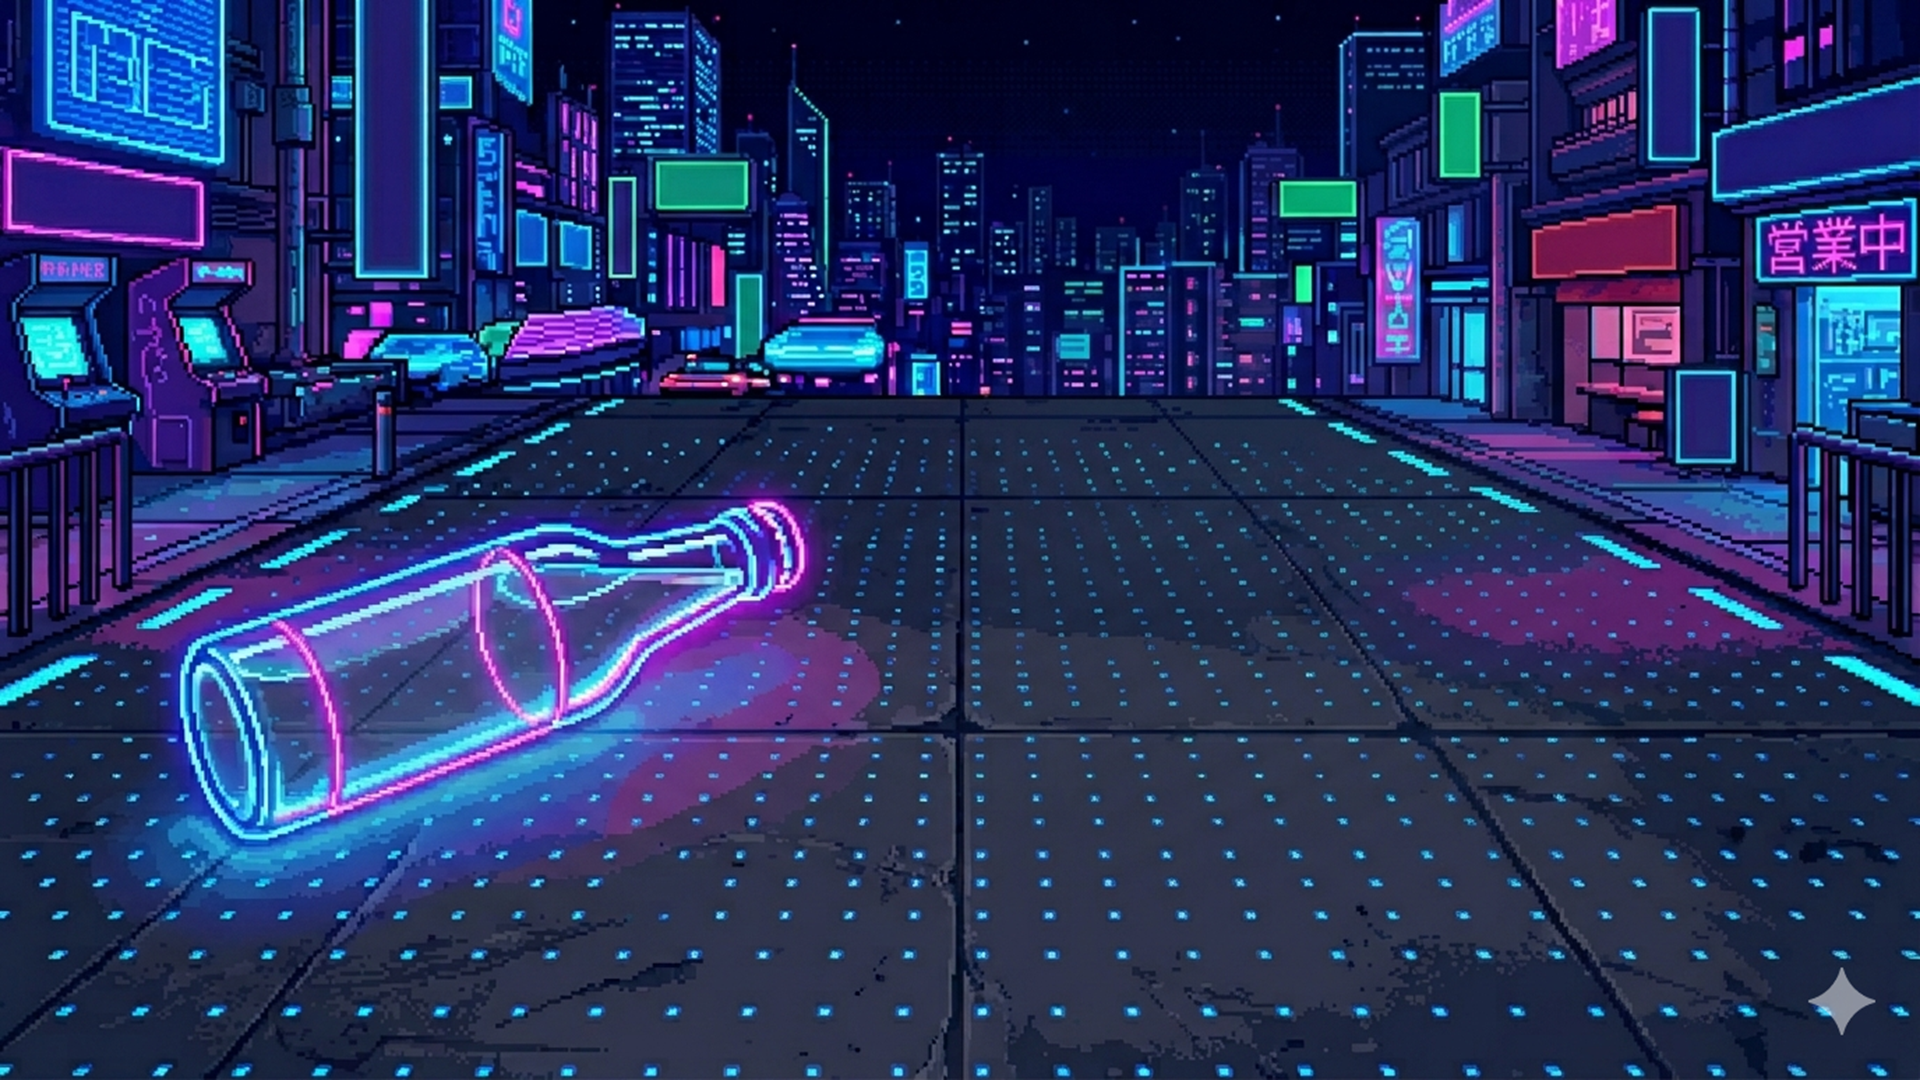
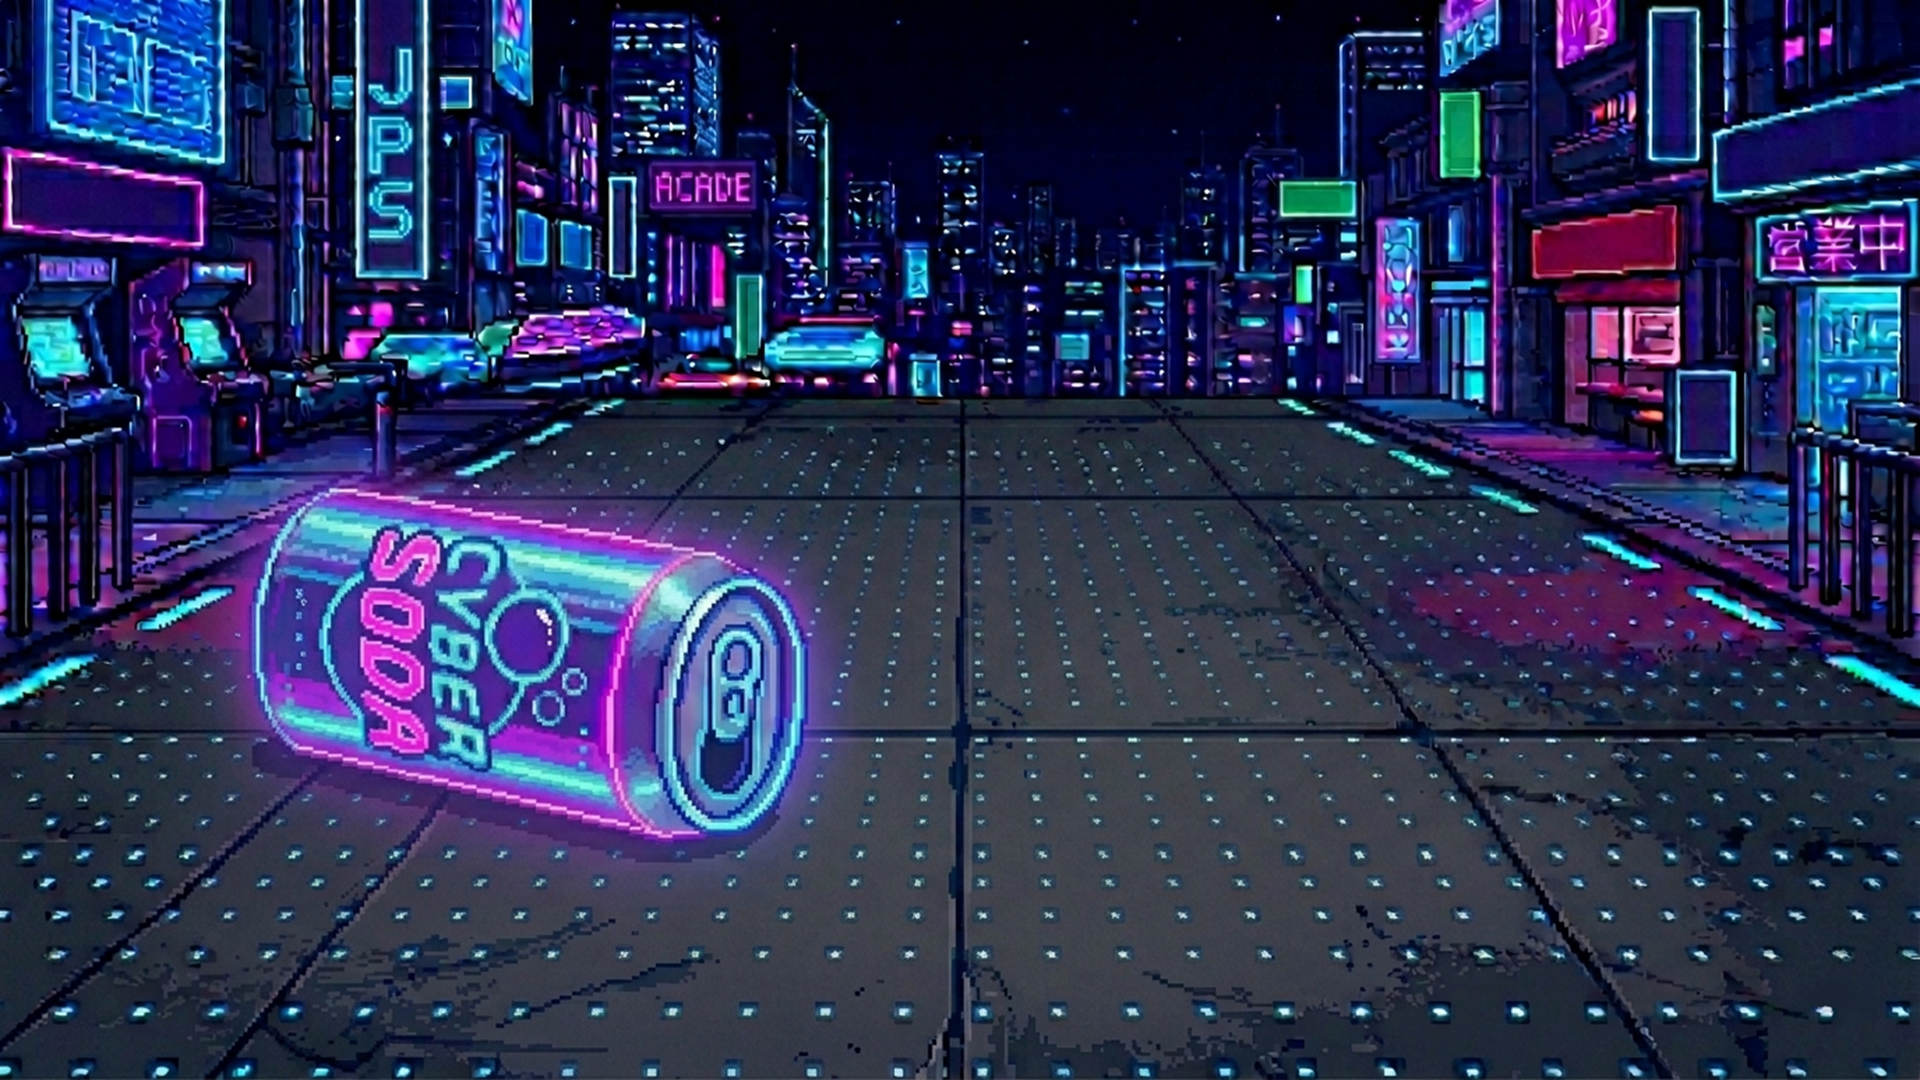
[追加] ResultSceneから各シーンへ遷移できるように変更。

diff --git a/SceneResult.cpp b/SceneResult.cpp
@@ -1,10 +1,15 @@
 #include "SceneResult.h"
+#include "SceneGame.h"
 #include "InputManager.h"
+#include <string>
 
-SceneResult::SceneResult(FileManager& fileMng, bool isClear, ClearResult& result) : SceneSuper(fileMng), _isClear(isClear), clearResult_(result)
+SceneResult::SceneResult(FileManager& fileMng, bool isClear, ClearResult& result) : SceneSuper(fileMng), _isClear(isClear), _clearResult(result)
 {
+	SceneGame::selectedStageIndex_ == 4 ? _selectedNext = 1 : _selectedNext = 0;
+
 	AddFontResourceExA("Resource/fonts/DotGothic16-Regular.ttf", FR_PRIVATE, NULL);
 	resultFontHandle = CreateFontToHandle("DotGothic16", 80, -1, DX_FONTTYPE_NORMAL);
+	nextButtonFontHandle = CreateFontToHandle("DotGothic16", 40, -1, DX_FONTTYPE_NORMAL);
 
 	_bgImg = fileMng.LoadImageFM("Resource/Image/Title_bg_NoLogo.png");
 	_resultClearLogoImg = fileMng.LoadImageFM("Resource/Image/Result/Result_Clear_Logo.png");
@@ -12,8 +17,27 @@ SceneResult::SceneResult(FileManager& fileMng, bool isClear, ClearResult& result
 	InputManager::GetInstance().SetTriggerCallback(ActionID::Decide,
 												   [this]()
 												   {
-													   SetNextScene(SceneID::TITLE);
+													   switch (static_cast<NextScene>(_selectedNext))
+													   {
+														   case NextScene::Next:
+															   SceneGame::selectedStageIndex_++;
+															   SetNextScene(SceneID::GAME);
+															   break;
+														   case NextScene::StageSelect:
+															   SetNextScene(SceneID::STAGE_SELECT);
+															   break;
+														   case NextScene::Title:
+															   SetNextScene(SceneID::TITLE);
+															   break;
+													   }
+													   
 													   isEnd = true;
+												   });
+	InputManager::GetInstance().SetTriggerCallback(ActionID::MoveH,
+												   [this]()
+												   {
+													   float moveValue = InputManager::GetInstance().GetActionValue(ActionID::MoveH);
+													   MoveSelect(moveValue);
 												   });
 }
 
@@ -34,10 +58,40 @@ void SceneResult::Draw()
 	if (_isClear)
 	{
 		DrawRotaGraph(LOGO_X, LOGO_Y, 1.0f, -5.0f * (DX_PI_F / 180.0f), _resultClearLogoImg->GetHandle(), true);
-		DrawFormatStringToHandle(RESULT_TIME_X, RESULT_TIME_Y, 0xffffff, resultFontHandle, "CLEAR TIME: %.2f", clearResult_.time);
+		DrawFormatStringToHandle(RESULT_TIME_X, RESULT_TIME_Y, 0xffffff, resultFontHandle, "CLEAR TIME: %.2f", _clearResult.time);
 	}
 	else
 	{
 		DrawRotaGraph(LOGO_X, LOGO_Y, 1.0f, -5.0f * (DX_PI_F / 180.0f), _resultFailedLogoImg->GetHandle(), true);
+	}
+
+	for (int i = 0; i < static_cast<int>(NextScene::Max); i++)
+	{
+		if (i == 0)
+		{
+			if (SceneGame::selectedStageIndex_ == 4) continue;
+		}
+		std::string text = "";
+		i == 0 ? text = "NEXT STAGE" : i == 1 ? text = "STAGE SELECT" : text = "TITLE";
+		int textWidth = GetDrawStringWidthToHandle(text.c_str(), static_cast<int>(strlen(text.c_str())), nextButtonFontHandle);
+		int x = NEXT_BUTTON_X + (NEXT_BUTTON_MARGIN + NEXT_BUTTON_WID) * i;
+		DrawBox(x, NEXT_BUTTON_Y, x + NEXT_BUTTON_WID, NEXT_BUTTON_Y + NEXT_BUTTON_HIG, 0x114444 + 0x114444 * i, true);
+		DrawStringToHandle((x + NEXT_BUTTON_WID / 2) - (textWidth / 2), (NEXT_BUTTON_Y + NEXT_BUTTON_HIG / 2) - (GetFontSizeToHandle(nextButtonFontHandle) / 2), text.c_str(), 0xffffff, nextButtonFontHandle);
+		if (_selectedNext == i)
+		{
+			DrawBox(x - 5, NEXT_BUTTON_Y - 5, x + NEXT_BUTTON_WID + 5, NEXT_BUTTON_Y + NEXT_BUTTON_HIG + 5, 0xff0000, false);
+		}
+	}
+}
+
+void SceneResult::MoveSelect(float moveValue)
+{
+	if (moveValue > 0)
+	{
+		_selectedNext = (_selectedNext == 2) ? _selectedNext : _selectedNext + 1;
+	}
+	else
+	{
+		_selectedNext = (SceneGame::selectedStageIndex_ == 4) ? (_selectedNext == 1) ? _selectedNext : _selectedNext - 1 : (_selectedNext == 0) ? _selectedNext : _selectedNext - 1;
 	}
 }

diff --git a/SceneResult.h b/SceneResult.h
@@ -3,15 +3,29 @@
 #include "Application.h"
 #include "ImageFile.h"
 #include "SceneManager.h"
+enum class NextScene
+{
+	Next = 0,
+	StageSelect,
+	Title,
+	Max
+};
+
 class SceneResult :
-    public SceneSuper
+	public SceneSuper
 {
 private:
-	static constexpr int LOGO_Y = 250;
 	static constexpr int LOGO_X = Application::SCREEN_WID / 2;
+	static constexpr int LOGO_Y = 250;
 
 	static constexpr int RESULT_TIME_X = 600;
 	static constexpr int RESULT_TIME_Y = 500;
+
+	static constexpr int NEXT_BUTTON_X = 310;
+	static constexpr int NEXT_BUTTON_Y = 800;
+	static constexpr int NEXT_BUTTON_WID = 400;
+	static constexpr int NEXT_BUTTON_HIG = 150;
+	static constexpr int NEXT_BUTTON_MARGIN = 50;
 public:
 	SceneResult(FileManager& fileMng, bool isClear, ClearResult& result);
 
@@ -20,6 +34,7 @@ public:
 	void Update() override;
 	void Draw() override;
 
+	void MoveSelect(float moveValue);
 private:
 	bool _isClear;
 	std::shared_ptr<ImageFile> _bgImg;
@@ -27,7 +42,8 @@ private:
 	std::shared_ptr<ImageFile> _resultFailedLogoImg;
 
 	int resultFontHandle;
+	int nextButtonFontHandle;
 
-	ClearResult clearResult_;
+	ClearResult _clearResult;
+	int _selectedNext;
 };
-

diff --git a/SceneStageSelect.cpp b/SceneStageSelect.cpp
@@ -1,11 +1,17 @@
 #define NOMINMAX
 #include <algorithm>
+#include <string>
 #include "SceneStageSelect.h"
 #include "InputManager.h"
 #include "SceneGame.h"
 
 SceneStageSelect::SceneStageSelect(FileManager& fileMng) : SceneSuper(fileMng)
 {
+	//AddFontResourceExA("Resource/fonts/KumarOneOutline-Regular.ttf", FR_PRIVATE, NULL);
+	//stageFontHandle = CreateFontToHandle("Kumar One Outline", 60, -1, DX_FONTTYPE_NORMAL);
+	AddFontResourceExA("Resource/fonts/DotGothic16-Regular.ttf", FR_PRIVATE, NULL);
+	stageFontHandle = CreateFontToHandle("DotGothic16", 80, -1, DX_FONTTYPE_NORMAL);
+	stageNumFontHandle = CreateFontToHandle("DotGothic16", 120, -1, DX_FONTTYPE_NORMAL);
 	_selectedStage = 1; // 初期選択ステージは1
 
 	_bgImg = fileMng.LoadImageFM("Resource/Image/StageSelect/StageSelect_bg.png");
@@ -39,7 +45,10 @@ SceneStageSelect::SceneStageSelect(FileManager& fileMng) : SceneSuper(fileMng)
 
 SceneStageSelect::~SceneStageSelect()
 {
-
+	DeleteFontToHandle(stageFontHandle);
+	DeleteFontToHandle(stageNumFontHandle);
+	//RemoveFontResourceExA("Resource/fonts/KumarOneOutline-Regular.ttf", FR_PRIVATE, NULL);
+	RemoveFontResourceExA("Resource/fonts/DotGothic16-Regular.ttf", FR_PRIVATE, NULL);
 }
 
 void SceneStageSelect::Update()
@@ -57,6 +66,14 @@ void SceneStageSelect::Draw()
 		int x = BLOCK_X + (i % 2) * (_stageSelectBlockImg->GetWidth() + 20);
 		int y = BLOCK_Y + (i / 2) * (_stageSelectBlockImg->GetHeight() + 20);
 		DrawGraph(x, y, _stageSelectBlockImg->GetHandle(), true);
+
+		std::string stageText = "STAGE";
+		int width = GetDrawStringWidthToHandle(stageText.c_str(), stageText.length(), stageFontHandle);
+		DrawStringToHandle(x + (_stageSelectBlockImg->GetWidth() / 2) - (width / 2), y + 40, stageText.c_str(), 0xaaebfb, stageFontHandle);
+		
+		std::string stageNumStr = std::to_string(i + 1);
+		int numWidth = GetDrawStringWidthToHandle(stageNumStr.c_str(), stageNumStr.length(), stageNumFontHandle);
+		DrawFormatStringToHandle(x + (_stageSelectBlockImg->GetWidth() / 2) - (numWidth / 2), y + 140, 0xffffff, stageNumFontHandle, "%d", i + 1);
 		if (_selectedStage == i + 1)
 		{
 			// 選択中のステージに赤い枠を描画

diff --git a/InputManager.h b/InputManager.h
@@ -94,8 +94,8 @@ public:
 	int GetMouseY() const { return mouseY; }
 
 	// アクションに対する入力状態を取得する関数
-	float GetActionValue(ActionID action, int padNo = 0) const;
-	float GetActionAxis(ActionID action, int padNo = 0) const;
+	float GetActionValue(ActionID action, int padNo = 0) const; // ボタン
+	float GetActionAxis(ActionID action, int padNo = 0) const; // 軸
 
 	// アクションIDに対する入力状態を取得する関数
 	using ActionCallback = std::function<void()>;
@@ -113,9 +113,9 @@ public:
 	void ClearAllCallbacks();
 
 	// アクションに対する入力状態を取得する関数
-	bool IsActionPressed(ActionID action, int padNo = 0) const;
-	bool IsActionTriggered(ActionID action, int padNo = 0) const;
-	bool IsActionReleased(ActionID action, int padNo = 0) const;
+	bool IsActionPressed(ActionID action, int padNo = 0) const;// 押されている間
+	bool IsActionTriggered(ActionID action, int padNo = 0) const;// 押された瞬間
+	bool IsActionReleased(ActionID action, int padNo = 0) const;// 離された瞬間
 
 	// 振動機能
 	void StartVibration(int Power, int Time = -1, int EffectIndex = -1, int padNo = 0);

diff --git a/SceneManager.cpp b/SceneManager.cpp
@@ -65,7 +65,7 @@ std::unique_ptr<SceneSuper> SceneManager::CreateScene(SceneSuper::SceneID sceneI
 		case SceneSuper::SceneID::GAME:
 			return std::make_unique<SceneGame>(fileMng_, *this);
 		case SceneSuper::SceneID::RESULT:
-			return std::make_unique<SceneResult>(fileMng_, _isClear, clearResult_);
+			return std::make_unique<SceneResult>(fileMng_, _isClear, _clearResult);
 		case SceneSuper::SceneID::PAUSE:
 			return std::make_unique<ScenePause>(fileMng_, *this);
 		default:
@@ -140,5 +140,5 @@ bool SceneManager::GetExit() const
 
 void SceneManager::SetClearResult(const ClearResult& result)
 {
-	clearResult_ = result;
+	_clearResult = result;
 }

diff --git a/Player.cpp b/Player.cpp
@@ -373,11 +373,12 @@ void Player::Damage(float dmg)
 
 void Player::ClickSodaJump()
 {
-	sodaRatio = sodaShakeGauge / sodaGaugeMax;
+	
 
 	//炭酸蓄積ゲージが0より大きい場合、炭酸蓄積ゲージを減らす
 	if (sodaShakeGauge > 0)
 	{
+		sodaRatio = sodaShakeGauge / sodaGaugeMax;
 		//炭酸蓄積ゲージの割合を炭酸攻撃の威力に変換
 		sodaPower = sodaRatio * 20.0f;
 

diff --git a/SceneGame.h b/SceneGame.h
@@ -27,9 +27,8 @@ public:
 	FileManager& GetFileManager() { return fileMng_; }
 
 	static void SetSelectedStageIndex(int index) { selectedStageIndex_ = index; }
-private:
 	static int selectedStageIndex_;
-
+private:
 	std::unique_ptr<Stage> stage_;
 	std::unique_ptr<Player> player_;
 	std::vector<std::shared_ptr<EnemyBase>> enemyList_;		//敵のリスト

diff --git a/SceneStageSelect.h b/SceneStageSelect.h
@@ -29,5 +29,8 @@ private:
 	std::shared_ptr<ImageFile> _stageSelectBlockImg;
 
 	int _selectedStage;
+
+	int stageFontHandle;
+	int stageNumFontHandle;
 };
 

diff --git a/InputManager.cpp b/InputManager.cpp
@@ -87,7 +87,7 @@ const char* InputManager::GetPadName(int type) const
 // コントローラーのボタンマッピングを解決する関数
 InputManager::InputManager()
 {
-	// 配列の初期化を明示 (必須ではないが、可読性向上のため)
+	// 配列の初期化を明示
 	memset(key, 0, sizeof(key));
 	memset(prevKey, 0, sizeof(prevKey));
 	memset(padButton, 0, sizeof(padButton));

diff --git a/SceneManager.h b/SceneManager.h
@@ -56,5 +56,5 @@ private:
 
 	//Transition transition_;
 
-	ClearResult clearResult_;
+	ClearResult _clearResult;
 };

diff --git a/SceneTitle.cpp b/SceneTitle.cpp
@@ -12,7 +12,7 @@ SceneTitle::SceneTitle(FileManager& fileMng) : SceneSuper(fileMng)
 
 
 	BGMManager::GetInstance().PlayBGM(_mainBgm);
-	_mainBgm->SetVolume(128);
+	_mainBgm->SetVolume(196);
 	InputManager::GetInstance().SetTriggerCallback(ActionID::Decide,
 												   [this]()
 												   {

diff --git a/SceneGame.cpp b/SceneGame.cpp
@@ -26,6 +26,7 @@ SceneGame::SceneGame(FileManager& fileMng, SceneManager& sceneMng) : SceneSuper(
 
 	clearTime = 0.0f;
 
+	// デバッグ
 	InputManager::GetInstance().SetTriggerCallback(ActionID::Decide, 
 												   [this]()
 												   {